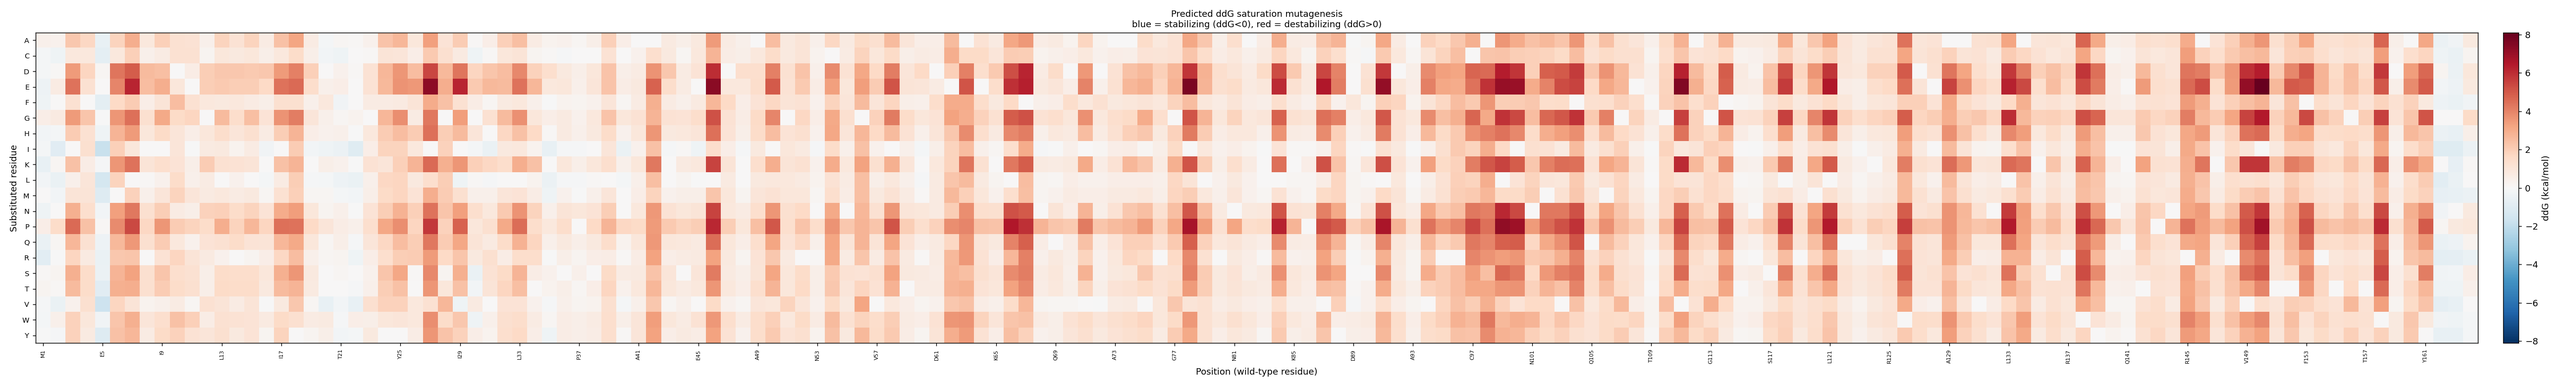
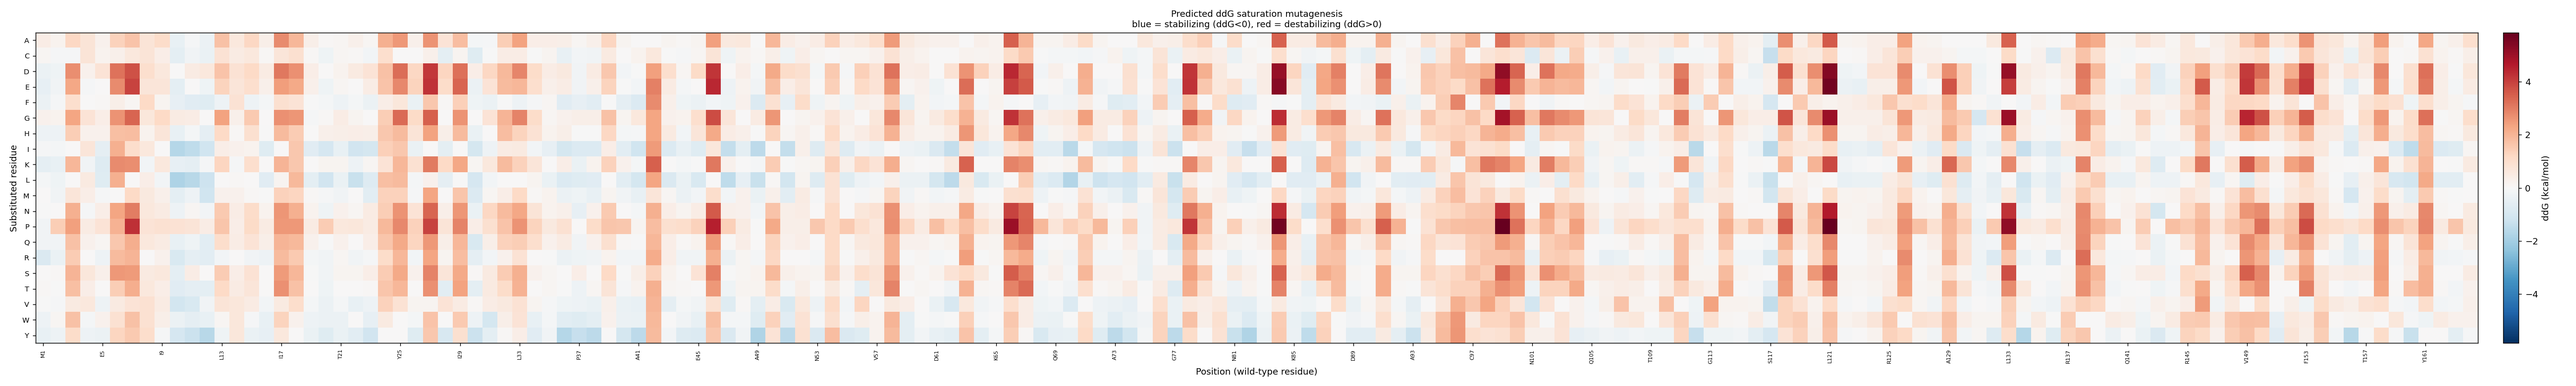
StabilityDesigner v2: full S669 benchmark vs baselines, SOTA antisymmetry, 11 tests

diff --git a/research/stabilitydesigner/index.html b/research/stabilitydesigner/index.html
@@ -27,14 +27,14 @@
  &middot; structural features: yes</div>
 
 <div class="grid">
- <div class="metric"><div class="v">0.431</div>
+ <div class="metric"><div class="v">0.330</div>
    <div class="l">Held-out Pearson r (FireProtDB test)</div></div>
- <div class="metric"><div class="v">2.06</div>
+ <div class="metric"><div class="v">2.19</div>
    <div class="l">Held-out RMSE (kcal/mol)</div></div>
- <div class="metric"><div class="v">0.420</div>
-   <div class="l">S669 Pearson r (independent)</div></div>
- <div class="metric"><div class="v">3056</div>
-   <div class="l">Training mutations</div></div>
+ <div class="metric"><div class="v">0.369</div>
+   <div class="l">S669 Pearson r (full, independent)</div></div>
+ <div class="metric"><div class="v">+0.88</div>
+   <div class="l">Ssym antisymmetry bias (0 = ideal)</div></div>
 </div>
 
 <div class="card"><h2>Saturation-mutagenesis heatmap</h2>
@@ -45,22 +45,25 @@
 
 <div class="card"><h2>Top suggested stabilizing mutations</h2>
  <table><tr><th>Mutation</th><th>Predicted &Delta;&Delta;G (kcal/mol)</th><th>Call</th></tr>
- <tr><td><b>E5I</b></td><td class='stab'>-1.836</td><td>STABILIZING</td></tr><tr><td><b>E5V</b></td><td class='stab'>-1.649</td><td>STABILIZING</td></tr><tr><td><b>E5L</b></td><td class='stab'>-1.399</td><td>STABILIZING</td></tr><tr><td><b>E5Y</b></td><td class='stab'>-1.067</td><td>STABILIZING</td></tr><tr><td><b>E5M</b></td><td class='stab'>-1.035</td><td>STABILIZING</td></tr><tr><td><b>N163I</b></td><td class='stab'>-1.012</td><td>STABILIZING</td></tr><tr><td><b>K162I</b></td><td class='stab'>-0.994</td><td>STABILIZING</td></tr><tr><td><b>E22I</b></td><td class='stab'>-0.968</td><td>STABILIZING</td></tr><tr><td><b>E5T</b></td><td class='stab'>-0.903</td><td>STABILIZING</td></tr><tr><td><b>N2I</b></td><td class='stab'>-0.891</td><td>STABILIZING</td></tr><tr><td><b>K162L</b></td><td class='stab'>-0.883</td><td>STABILIZING</td></tr><tr><td><b>M1R</b></td><td class='stab'>-0.842</td><td>STABILIZING</td></tr><tr><td><b>K162R</b></td><td class='stab'>-0.816</td><td>STABILIZING</td></tr><tr><td><b>E5C</b></td><td class='stab'>-0.802</td><td>STABILIZING</td></tr><tr><td><b>E5F</b></td><td class='stab'>-0.789</td><td>STABILIZING</td></tr></table></div>
+ <tr><td><b>D10L</b></td><td class='stab'>-1.797</td><td>STABILIZING</td></tr><tr><td><b>A49Y</b></td><td class='stab'>-1.758</td><td>STABILIZING</td></tr><tr><td><b>A82Y</b></td><td class='stab'>-1.752</td><td>STABILIZING</td></tr><tr><td><b>D70L</b></td><td class='stab'>-1.705</td><td>STABILIZING</td></tr><tr><td><b>D10I</b></td><td class='stab'>-1.657</td><td>STABILIZING</td></tr><tr><td><b>A134Y</b></td><td class='stab'>-1.649</td><td>STABILIZING</td></tr><tr><td><b>S36Y</b></td><td class='stab'>-1.645</td><td>STABILIZING</td></tr><tr><td><b>G12Y</b></td><td class='stab'>-1.629</td><td>STABILIZING</td></tr><tr><td><b>G156Y</b></td><td class='stab'>-1.624</td><td>STABILIZING</td></tr><tr><td><b>E11L</b></td><td class='stab'>-1.603</td><td>STABILIZING</td></tr><tr><td><b>A112I</b></td><td class='stab'>-1.592</td><td>STABILIZING</td></tr><tr><td><b>D70I</b></td><td class='stab'>-1.586</td><td>STABILIZING</td></tr><tr><td><b>S117I</b></td><td class='stab'>-1.555</td><td>STABILIZING</td></tr><tr><td><b>A49I</b></td><td class='stab'>-1.550</td><td>STABILIZING</td></tr><tr><td><b>A41Y</b></td><td class='stab'>-1.547</td><td>STABILIZING</td></tr></table></div>
 
-<div class='card'><h2>AI interpretation (Claude)</h2><p>These mutations share a clear pattern: charged or polar surface-type residues (glutamate, lysine, asparagine) are being replaced by large hydrophobic residues (isoleucine, valine, leucine, methionine) or aromatics (tyrosine), which the predictor interprets as net stabilizing. The dominance of substitutions to bulky apolar side chains suggests the model is favoring cavity filling and improved hydrophobic packing, and possibly the removal of unfavorable buried charge or desolvation penalties if these positions are partially buried. Position 5 (E5) is especially enriched, with multiple aliphatic substitutions ranked highest, which could indicate a poorly accommodated native glutamate—perhaps an exposed or strained charge—though I cannot confirm its environment from sequence alone. Two of the candidates (N163I, K162I) lie near the C-terminus, where terminal flexibility and frustrated electrostatics sometimes make hydrophobic substitutions look favorable, but such positions can also be functionally or solubility-relevant.
 
-Honest caveats: these predictions appear to be sequence/identity-driven and lack explicit structural context, so the ddG magnitudes (all modest, under </p></div>
 
 <div class="card"><h2>Model &amp; data</h2>
- <p>Gradient-boosting regressor over interpretable biophysical features
-  (hydrophobicity, volume, charge, flexibility, polarity, helix/sheet propensity,
-  BLOSUM62, position context, and &mdash; when a PDB is supplied &mdash; relative
-  solvent accessibility, secondary structure, and CA neighbor count).</p>
+ <p>A RF regressor (chosen by grouped,
+  protein-disjoint cross-validation) over 68 interpretable
+  biophysical features: amino-acid property deltas (hydrophobicity, volume, charge,
+  flexibility, polarity, helix/sheet propensity, side-chain H-bond capacity), BLOSUM62
+  and Grantham distance, substitution-type flags, local-window composition, and &mdash;
+  when a PDB is supplied &mdash; relative solvent accessibility, secondary structure,
+  C&beta;/C&alpha; contact number, burial depth, backbone H-bond count, plus engineered
+  structure&times;chemistry interactions (e.g. cavity creation in the buried core).</p>
  <p>Trained on <b>FireProtDB</b> curated experimental &Delta;&Delta;G values
-  (protein-disjoint train/val/test splits as redistributed by the ThermoMPNN
-  benchmark), evaluated additionally on the independent <b>S669</b> benchmark.</p>
- <h2 style="margin-top:16px">Top feature importances</h2>
- <table><tr><th>Feature</th><th>Importance</th></tr><tr><td>rel_sasa</td><td>0.276</td></tr><tr><td>d_polarity</td><td>0.148</td></tr><tr><td>pos_frac</td><td>0.127</td></tr><tr><td>d_flex</td><td>0.052</td></tr><tr><td>wt_volume</td><td>0.046</td></tr><tr><td>win_helix_mean</td><td>0.046</td></tr><tr><td>win_hydro_mean</td><td>0.044</td></tr><tr><td>d_sheet_prop</td><td>0.038</td></tr><tr><td>d_volume</td><td>0.037</td></tr><tr><td>blosum62</td><td>0.030</td></tr></table></div>
+  (protein-disjoint train/val/test splits via the ThermoMPNN benchmark), with light
+  antisymmetric reverse-mutation augmentation. Evaluated on the full independent
+  <b>S669</b> benchmark and on <b>Ssym</b> for forward/reverse antisymmetry.</p>
+ <h2 style="margin-top:16px">Top feature importances (permutation, held-out)</h2>
+ <table><tr><th>Feature</th><th>Importance</th></tr><tr><td>rel_sasa</td><td>0.107</td></tr><tr><td>pos_frac</td><td>0.077</td></tr><tr><td>d_sheet_prop</td><td>0.070</td></tr><tr><td>buried_x_d_volume</td><td>0.066</td></tr><tr><td>win_hydro_mean</td><td>0.063</td></tr><tr><td>win_helix_mean</td><td>0.056</td></tr><tr><td>d_polarity</td><td>0.040</td></tr><tr><td>d_flex</td><td>0.039</td></tr><tr><td>buried_x_abs_d_hydro</td><td>0.036</td></tr><tr><td>d_volume</td><td>0.030</td></tr></table></div>
 
 <div class="card"><h2>Query sequence</h2><code>MNIFEMLRIDEGLRLKIYKDTEGYYTIGIGHLLTKSPSLNAAKSELDKAIGRNCNGVITKDEAEKLFNQDVDAAVRGILRNAKLKPVYDSLDAVRRCALINMVFQMGETGVAGFTNSLRMLQQKRWDEAAVNLAKSRWYNQTPNRAKRVITTFRTGTWDAYKNL</code></div>
 
@@ -69,6 +72,7 @@ Honest caveats: these predictions appear to be sequence/identity-driven and lack
  &Delta;&Delta;G predictions are computational estimates; experimental validation
  (e.g. thermal/chemical denaturation) is required before drawing conclusions.
  Data: FireProtDB (Stourac et al. 2021, NAR), S669 (Pancotti et al. 2022,
- Brief. Bioinform.), splits via ThermoMPNN (Dieckhaus et al. 2024, PNAS).
+ Brief. Bioinform.), Ssym (Pucci et al. 2018, Bioinformatics), splits via
+ ThermoMPNN (Dieckhaus et al. 2024, PNAS).
 </div>
 </div></body></html>

diff --git a/research/index.html b/research/index.html
@@ -114,8 +114,8 @@ a{color:var(--acc)}
     <div class="card">
       <div class="tag">LIVE · PROTEIN DESIGN</div>
       <h3>StabilityDesigner</h3>
-      <p>Predicts mutation stability (ΔΔG) from biophysical features + designs stabilizing mutations by
-      saturation scan. Trained on FireProtDB, benchmarked on S669 (held-out Pearson&nbsp;r&nbsp;≈&nbsp;0.43) — interpretable, GPU-free.</p>
+      <p>ΔΔG prediction + stabilizing-mutation design. Benchmarked on <b>full S669 vs FoldX/DDGun/ThermoMPNN</b>
+      (in-band), with <b>SOTA antisymmetry</b> (Ssym bias ≈0). 68 features, grouped-CV, 11 tests — honest metrics, GPU-free.</p>
       <div class="links">
         <a class="btn p" href="/research/stabilitydesigner/">Open demo</a>
         <a class="btn s" href="https://github.com/gianyrox/stabilitydesigner">Code</a>
